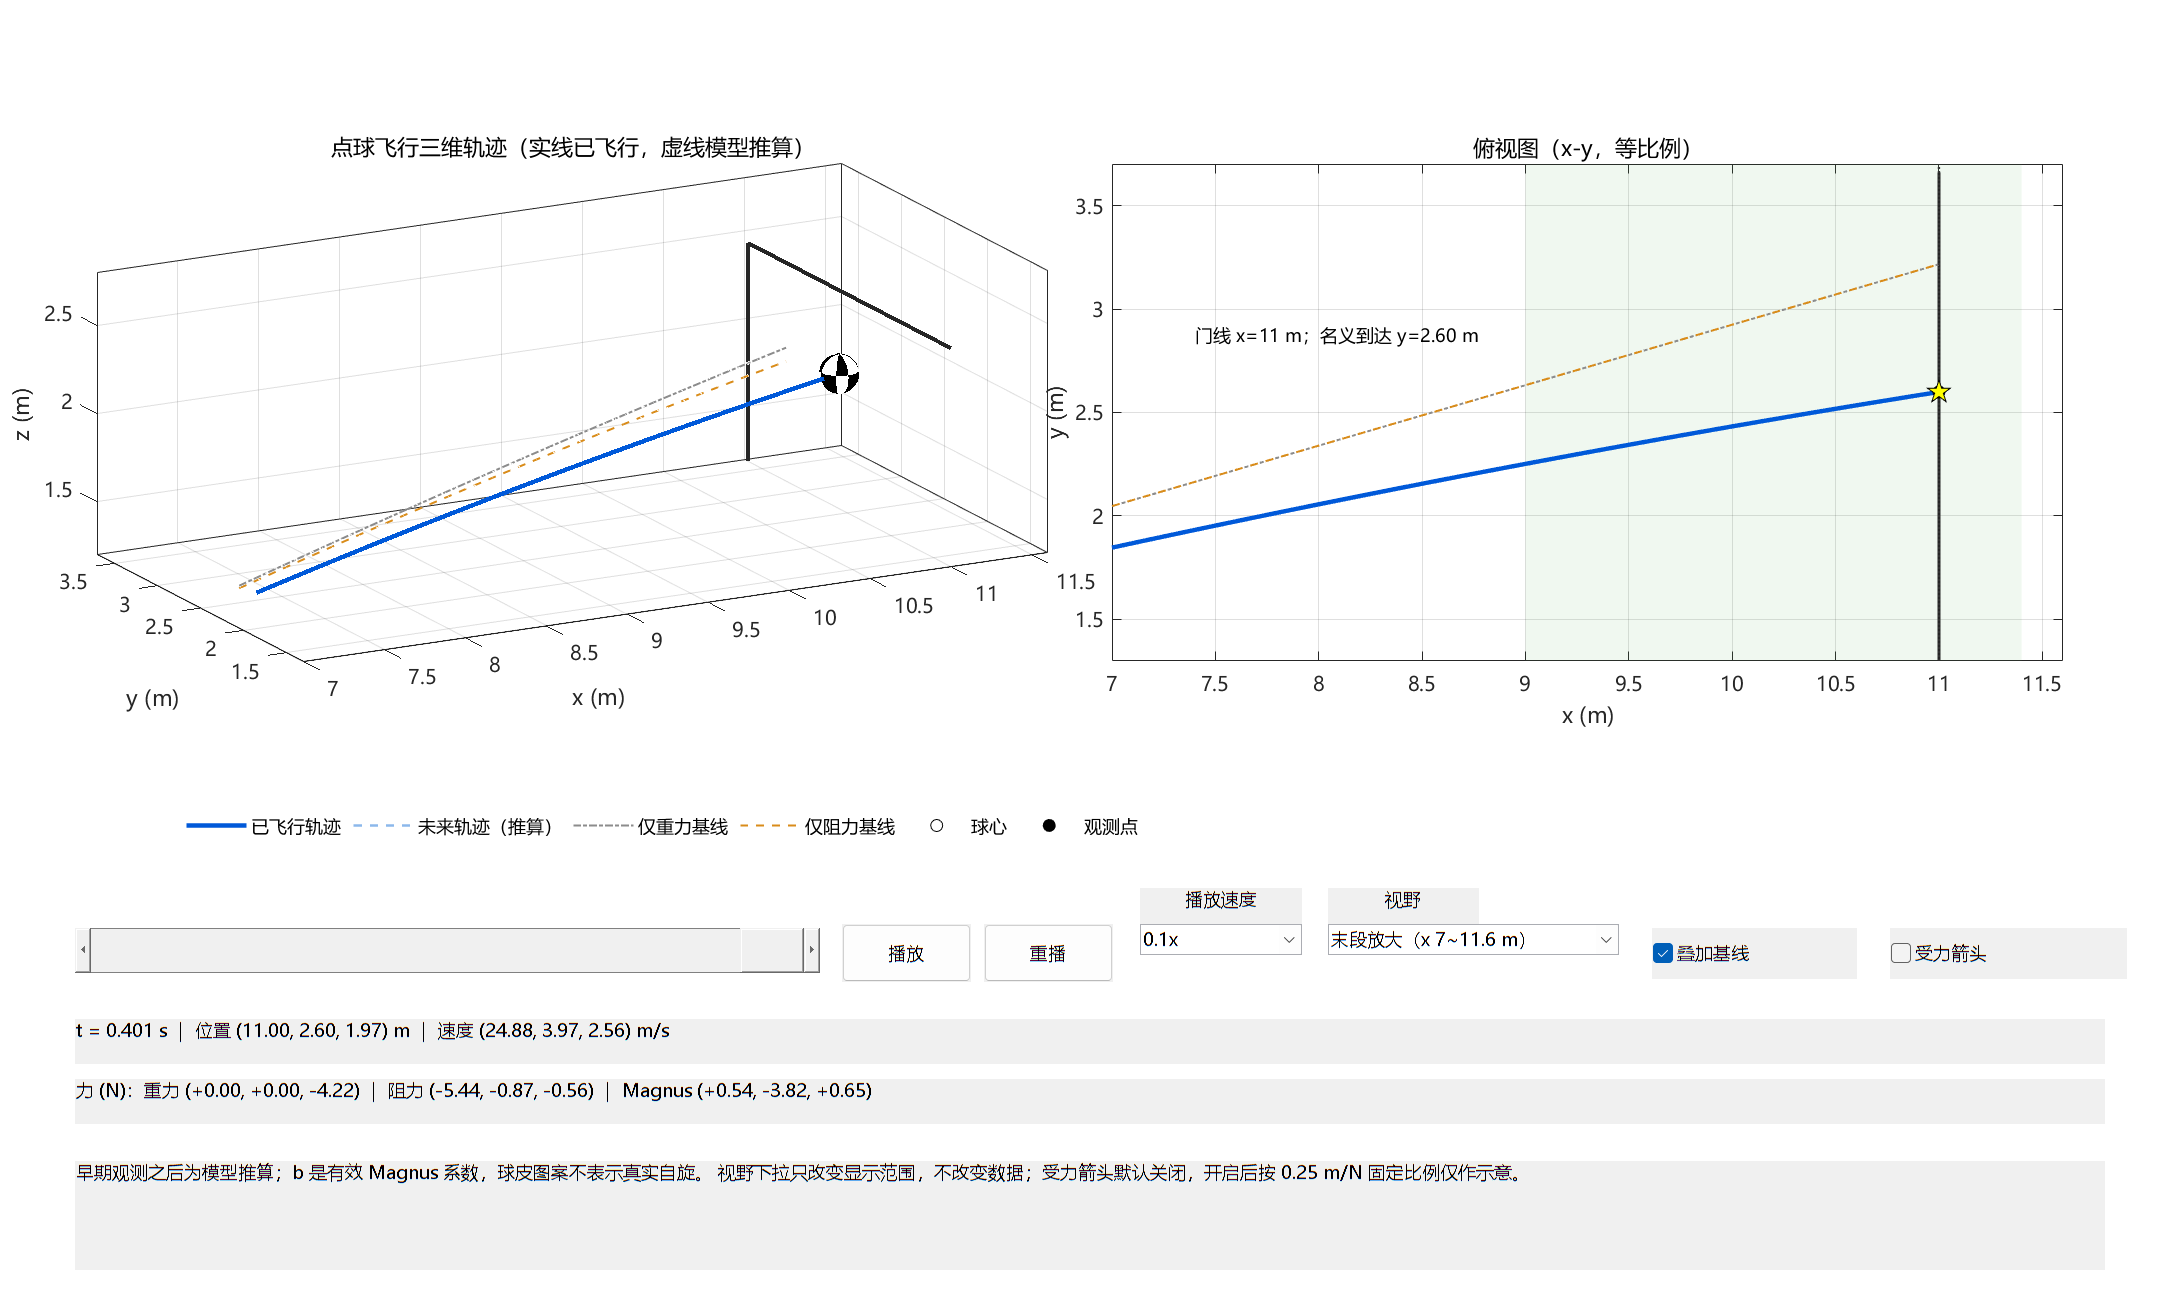
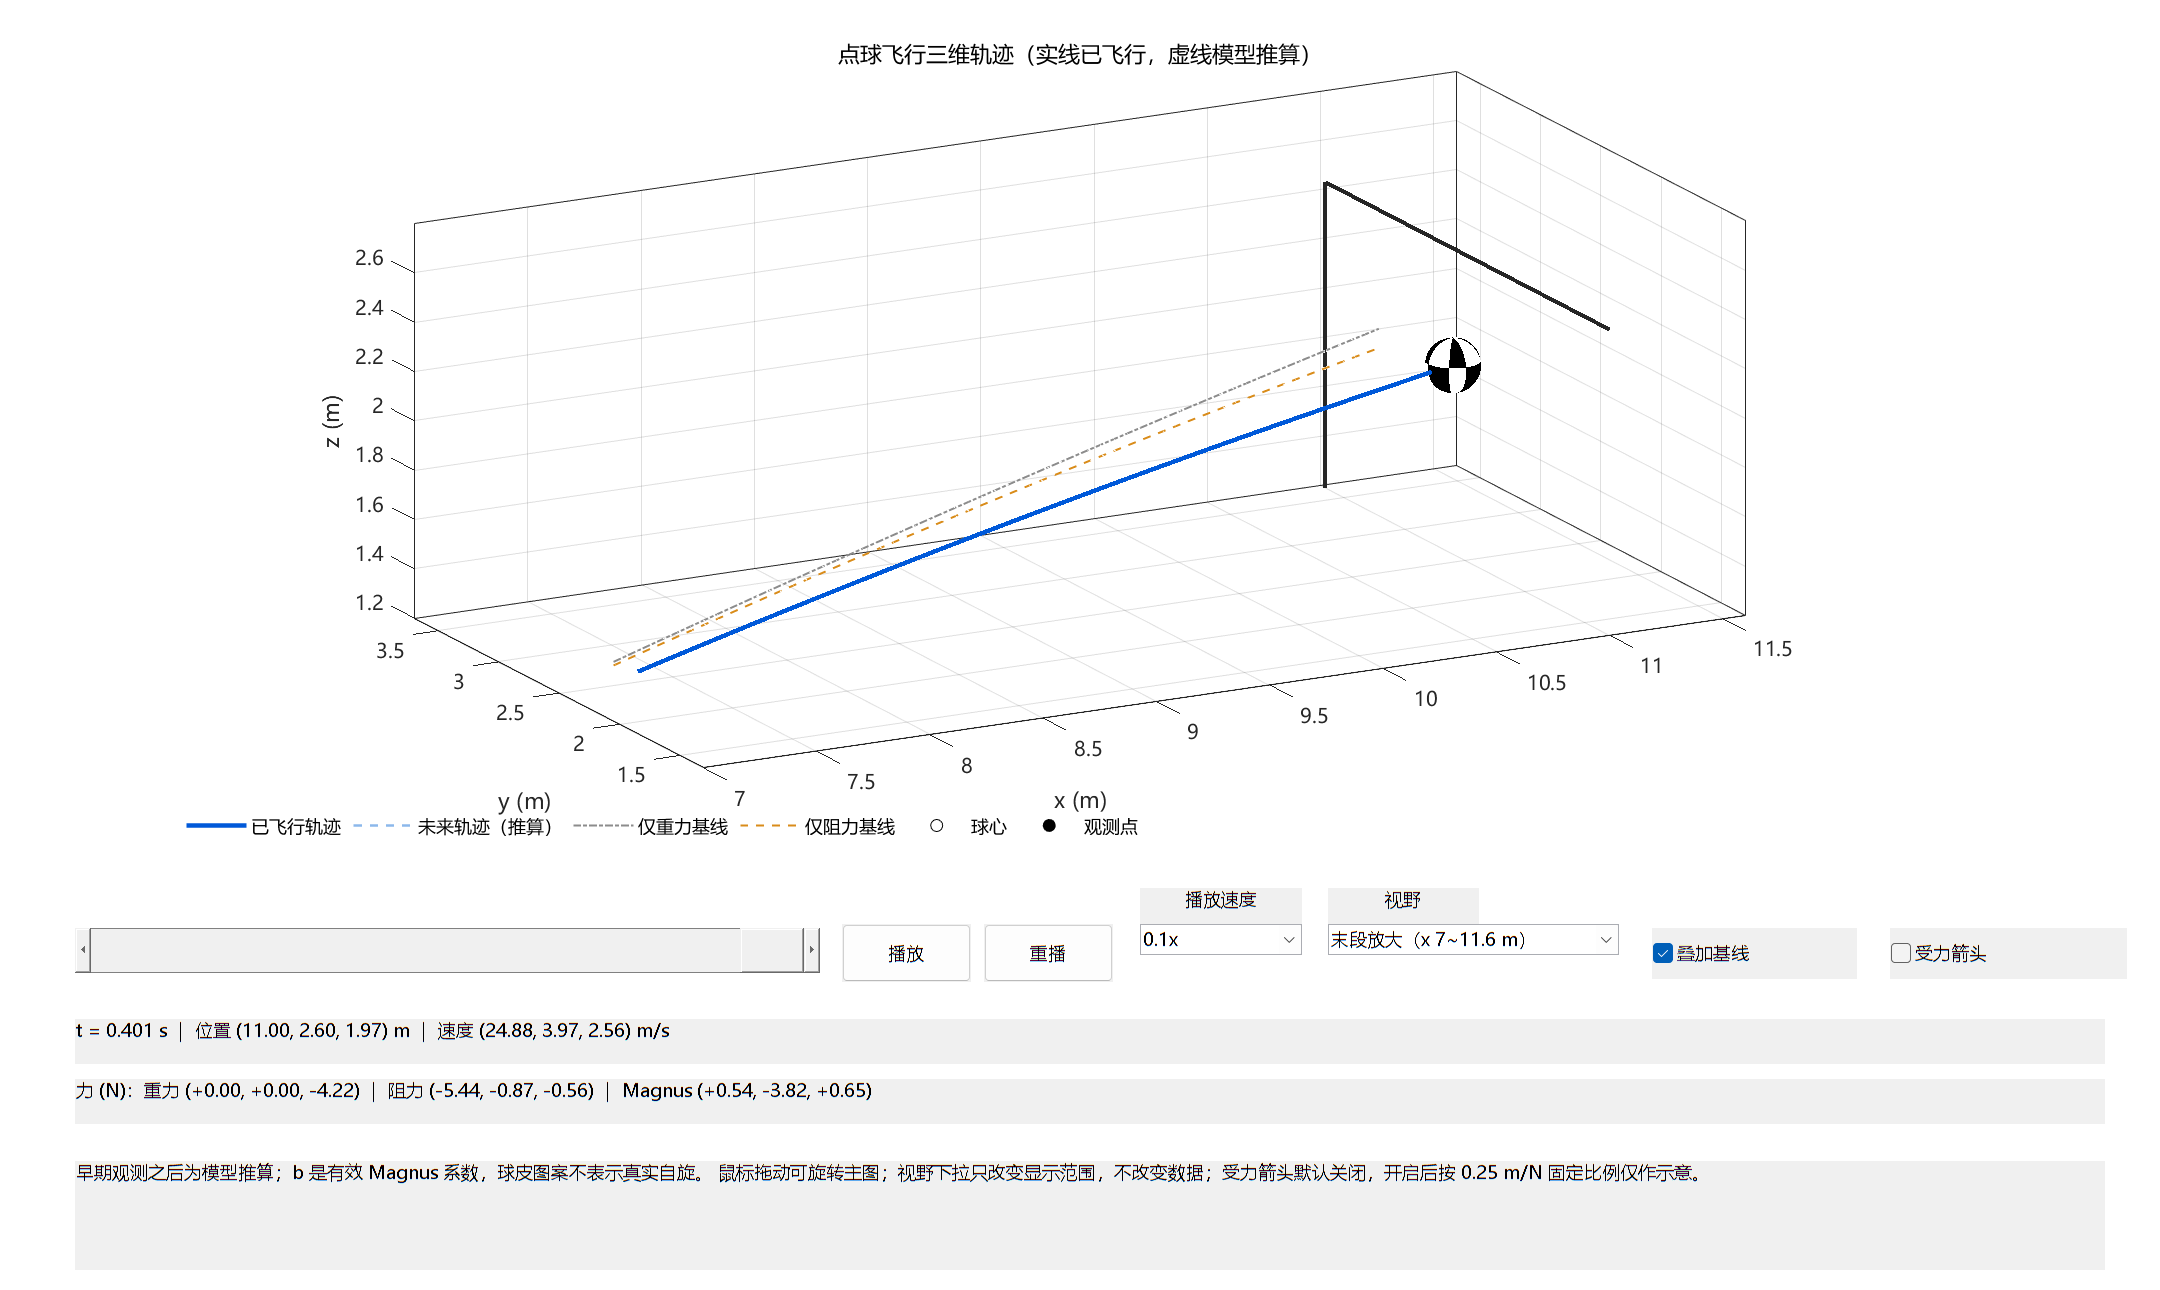
matlab仿真第三版，不过有点问题

diff --git a/仿真/Matlab版/penalty_view.m b/仿真/Matlab版/penalty_view.m
@@ -46,21 +46,17 @@ assert(ePos < 1e-7 && eT < 1e-7, '终点与已有 JSON 不一致（%.3g m / %.3g
 pG = predictPlane(thetaG,cfg,xPlane,Tmax); pD = predictPlane(thetaD,cfg,xPlane,Tmax);
 SG = deval(pG.sol,linspace(0,tEndOf(pG,Tmax),160))'; SD = deval(pD.sol,linspace(0,tEndOf(pD,Tmax),160))';
 
-% ---------- 界面（三维 + 俯视双视图，export 时不可见） ----------
+% ---------- 界面（单一可旋转三维主图，export 时不可见） ----------
 fig = figure('Name','点球动态仿真','Color','w','Units','pixels','Position',[40 40 1440 860]);
 if isExport, set(fig,'Visible','off'); end
-ax3 = axes(fig,'Position',[0.045 0.42 0.44 0.52],'Tag','Trajectory3D');
-axTop = axes(fig,'Position',[0.515 0.42 0.44 0.52],'Tag','TrajectoryTop');
+ax3 = axes(fig,'Position',[0.065 0.405 0.87 0.54],'Tag','Trajectory3D');
 hold(ax3,'on'); grid(ax3,'on'); box(ax3,'on'); view(ax3,-28,16);
-hold(axTop,'on'); grid(axTop,'on'); box(axTop,'on');
-set([ax3 axTop],'FontName','Microsoft YaHei');
+set(ax3,'FontName','Microsoft YaHei');
 
 % 草坪：仅球门附近小范围淡色
 patch(ax3,[9 11.4 11.4 9],[-0.4 -0.4 3.8 3.8],[0 0 0 0],[0.42 0.72 0.42], ...
     'FaceColor',[0.42 0.72 0.42],'EdgeColor','none','FaceAlpha',0.10, ...
     'HandleVisibility','off');
-patch(axTop,[9 11.4 11.4 9],[-0.4 -0.4 3.8 3.8],[0.42 0.72 0.42], ...
-    'EdgeColor','none','FaceAlpha',0.10,'HandleVisibility','off');
 
 % 球门：只画落在视野内的相关部分（右立柱、横梁、门线）
 plot3(ax3,xPlane*[1 1],goalHW*[1 1],[0 goalH],'-','Color',[0.15 0.15 0.15], ...
@@ -69,8 +65,6 @@ plot3(ax3,xPlane*[1 1],[-0.4 goalHW],goalH*[1 1],'-','Color',[0.15 0.15 0.15], .
     'LineWidth',2,'HandleVisibility','off');
 plot3(ax3,xPlane*[1 1],[-0.4 goalHW],[0 0],'-','Color',[0.15 0.15 0.15], ...
     'LineWidth',1.2,'HandleVisibility','off');
-plot(axTop,xPlane*[1 1],[-0.4 goalHW],'-','Color',[0.15 0.15 0.15], ...
-    'LineWidth',1.5,'HandleVisibility','off');
 
 % 完整 Magnus 轨迹：已飞行实线 / 未来浅蓝虚线（hFuture 初始即完整轨迹）
 hFuture = plot3(ax3,SAll(:,1),SAll(:,2),SAll(:,3),'--','Color',[0.55 0.72 0.92], ...
@@ -81,21 +75,11 @@ hG = plot3(ax3,SG(:,1),SG(:,2),SG(:,3),'-.','Color',[0.55 0.55 0.55], ...
     'LineWidth',1,'DisplayName','仅重力基线','Visible','off');
 hD = plot3(ax3,SD(:,1),SD(:,2),SD(:,3),'--','Color',[0.85 0.55 0.1], ...
     'LineWidth',1,'DisplayName','仅阻力基线','Visible','off');
-hFutureTop = plot(axTop,SAll(:,1),SAll(:,2),'--','Color',[0.55 0.72 0.92], ...
-    'LineWidth',1.2,'HandleVisibility','off');
-hPlayedTop = plot(axTop,SAll(1,1),SAll(1,2),'-','Color',[0 0.35 0.85], ...
-    'LineWidth',2.2,'HandleVisibility','off');
-hGTop = plot(axTop,SG(:,1),SG(:,2),'-.','Color',[0.55 0.55 0.55], ...
-    'LineWidth',1,'Visible','off','HandleVisibility','off');
-hDTop = plot(axTop,SD(:,1),SD(:,2),'--','Color',[0.85 0.55 0.1], ...
-    'LineWidth',1,'Visible','off','HandleVisibility','off');
 
 % 观测点（两处文字偏移不同，避免互相遮挡）
 hObs = plot3(ax3,obs(:,1),obs(:,2),obs(:,3),'ko','MarkerFaceColor','k', ...
     'MarkerSize',6,'DisplayName','观测点');
 plot3(ax3,obs(2,1),obs(2,2),obs(2,3),'rs','MarkerSize',9,'LineWidth',1.5, ...
-    'HandleVisibility','off');
-plot(axTop,obs(:,1),obs(:,2),'ko','MarkerFaceColor','k','MarkerSize',6, ...
     'HandleVisibility','off');
 text(ax3,obs(1,1)+0.10,obs(1,2)-0.85,obs(1,3)+0.55,'观测 t=0.05 s', ...
     'FontName','Microsoft YaHei','FontSize',9,'Clipping','on');
@@ -107,8 +91,6 @@ Cb = 0.92*ones(size(Zb)); Cb(mod(floor((ang+pi)/(pi/4)) + (Zb>0),2)==0) = 0.04;
 hBall = surf(ax3,cfg.r0(1)+R*Xb,cfg.r0(2)+R*Yb,cfg.r0(3)+R*Zb,Cb,'EdgeColor','none', ...
     'HandleVisibility','off'); colormap(ax3,gray(64));
 hCenterLegend = plot3(ax3,nan,nan,nan,'o','MarkerSize',6,'MarkerEdgeColor','k','MarkerFaceColor','w');
-hBallTop = plot(axTop,cfg.r0(1),cfg.r0(2),'o','MarkerSize',6, ...
-    'MarkerFaceColor',[0 0.35 0.85],'MarkerEdgeColor','k','HandleVisibility','off');
 
 % 受力箭头（默认关闭；开启后按 0.25 m/N 固定比例示意）
 sc = 0.25;
@@ -117,20 +99,12 @@ hqD = quiver3(ax3,0,0,0,0,0,0,0,'Color',[0.2 0.65 0.2],'LineWidth',1.6,'HandleVi
 hqM = quiver3(ax3,0,0,0,0,0,0,0,'Color',[0.2 0.3 0.9],'LineWidth',1.6,'HandleVisibility','off');
 set([hqG hqD hqM],'Visible','off');
 
-% 俯视图：门线 x=11 与名义到达点
-plot(axTop,xPlane*[1 1],[-0.4 3.8],':','Color',[0.2 0.2 0.2],'LineWidth',1.2, ...
-    'HandleVisibility','off');
-plot(axTop,xPlane,res.prediction.yGoal,'p','MarkerSize',12,'MarkerFaceColor','y', ...
-    'MarkerEdgeColor','k','HandleVisibility','off');
-text(axTop,xPlane-3.6,res.prediction.yGoal+0.28,sprintf('门线 x=11 m；名义到达 y=%.2f m', ...
-    res.prediction.yGoal),'FontName','Microsoft YaHei','FontSize',9);
+
 
 xlabel(ax3,'x (m)'); ylabel(ax3,'y (m)'); zlabel(ax3,'z (m)');
 title(ax3,'点球飞行三维轨迹（实线已飞行，虚线模型推算）','FontName','Microsoft YaHei');
-xlabel(axTop,'x (m)'); ylabel(axTop,'y (m)');
-title(axTop,'俯视图（x-y，等比例）','FontName','Microsoft YaHei');
 
-% 共享图例：放在两图下方、控件上方；只列 6 项
+% 图例位于主图下方、控件上方
 lg = legend(ax3,[hPlayed hFuture hG hD hCenterLegend hObs], ...
     {'已飞行轨迹','未来轨迹（推算）','仅重力基线','仅阻力基线','球心','观测点'}, ...
     'Orientation','horizontal','NumColumns',6,'FontSize',9);
@@ -171,7 +145,7 @@ hFL = uicontrol(fig,'Style','text','Units','normalized','Position',[0.035 0.128 
     'String','力 (N)','FontName','Microsoft YaHei','FontSize',9,'HorizontalAlignment','left');
 uicontrol(fig,'Style','text','Units','normalized','Position',[0.035 0.015 0.94 0.085], ...
     'String',['早期观测之后为模型推算；b 是有效 Magnus 系数，球皮图案不表示真实自旋。' ...
-    ' 视野下拉只改变显示范围，不改变数据；受力箭头默认关闭，开启后按 0.25 m/N 固定比例仅作示意。'], ...
+    ' 鼠标拖动可旋转主图；视野下拉只改变显示范围，不改变数据；受力箭头默认关闭，开启后按 0.25 m/N 固定比例仅作示意。'], ...
     'FontName','Microsoft YaHei','FontSize',9,'HorizontalAlignment','left');
 applyView(1);
 playing = false; speed = 0.1; t0 = 0; tClock = tic; timerH = [];
@@ -180,6 +154,7 @@ if ~isExport
     timerH = timer('ExecutionMode','fixedSpacing','Period',0.04,'BusyMode','drop', ...
         'TimerFcn',@cbTick,'Name','PenaltyViewPlayback');
     set(fig,'DeleteFcn',@(~,~)stopTimer(timerH));
+    rotate3d(fig,'on');
     fprintf('[penalty_view] 交互界面就绪：T=%.9f s，y=%.6f m，z=%.6f m。\n', ...
         pNom.tCross,pNom.y,pNom.z);
     return;
@@ -225,7 +200,7 @@ ver.theta = theta;
 ver.effectiveMagnusCoefficient = struct('bx',cfg.bx,'by',theta(5),'bz',theta(6),'unit','1/s');
 ver.baselines = struct('gravityV0',thetaG(1:3),'dragV0Cd',thetaD([1 2 3 4]));
 ver.forceArrowScale_mPerN = sc;
-ver.viewLayout = '3D+XY'; ver.predictionPanel = false;
+ver.viewLayout = '3D'; ver.predictionPanel = false; ver.topViewPanel = false;
 ver.viewRanges = struct('full',struct('x',[-0.4 11.6],'y',[-0.4 3.8],'z',[0 3]), ...
     'zoom',struct('x',[7 11.6],'y',[1.3 3.7],'z',[1.2 2.8]));
 ver.viewUsedExport = 'full';
@@ -245,15 +220,12 @@ fprintf('[penalty_view] export 完成：观测误差 %.3g m，终点误差 %.3g 
     function updateFrame(tNow)
         tNow = min(max(tNow,0),tAll(end)); sNow = deval(pNom.sol,tNow)';
         set(hBall,'XData',sNow(1)+R*Xb,'YData',sNow(2)+R*Yb,'ZData',sNow(3)+R*Zb);
-        set(hBallTop,'XData',sNow(1),'YData',sNow(2));
         % 过去实线：到 tNow 为止，末点追加当前点；未来虚线：从当前点到终点，不重复覆盖
         k = find(tAll <= tNow + 1e-12,1,'last'); if isempty(k), k = 1; end
         Spast = [[SAll(1:k,1);sNow(1)],[SAll(1:k,2);sNow(2)],[SAll(1:k,3);sNow(3)]];
         Sfut = [[sNow(1);SAll(k+1:end,1)],[sNow(2);SAll(k+1:end,2)],[sNow(3);SAll(k+1:end,3)]];
         set(hPlayed,'XData',Spast(:,1),'YData',Spast(:,2),'ZData',Spast(:,3));
         set(hFuture,'XData',Sfut(:,1),'YData',Sfut(:,2),'ZData',Sfut(:,3));
-        set(hPlayedTop,'XData',Spast(:,1),'YData',Spast(:,2));
-        set(hFutureTop,'XData',Sfut(:,1),'YData',Sfut(:,2));
         set(hSlider,'Value',tNow);
         [~,F] = ball_rhs(tNow,sNow(:),theta,cfg);
         set(hqG,'XData',sNow(1),'YData',sNow(2),'ZData',sNow(3),'UData',sc*F.gravity(1),'VData',sc*F.gravity(2),'WData',sc*F.gravity(3));
@@ -275,8 +247,6 @@ fprintf('[penalty_view] export 完成：观测误差 %.3g m，终点误差 %.3g 
         end
         xlim(ax3,xr); ylim(ax3,yr); zlim(ax3,zr);
         pbaspect(ax3,[diff(xr) diff(yr) diff(zr)]);   % 1:1:1 单位比例，量程不被拉伸
-        xlim(axTop,xr); ylim(axTop,yr);
-        pbaspect(axTop,[diff(xr) diff(yr) 1]);        % 俯视等比例，量程保持不变
     end
 
     function cbView(src,~)
@@ -325,7 +295,7 @@ fprintf('[penalty_view] export 完成：观测误差 %.3g m，终点误差 %.3g 
 
     function cbCmp(src,~)
         onoff = 'off'; if get(src,'Value'), onoff = 'on'; end
-        set([hG hD hGTop hDTop],'Visible',onoff);  % 三维与俯视图同步
+        set([hG hD],'Visible',onoff);
     end
 
     function cbClose(~,~)

diff --git a/latex/knowledge/B题建模与验证.md b/latex/knowledge/B题建模与验证.md
@@ -94,7 +94,7 @@ MATLAB主入口为 `仿真/Matlab版/penalty.m`：函数文件名采用MATLAB合
 
 动态演示采用已安装的MATLAB R2024a原生三维绘图。计算对象仍是球心状态r、v，球体表面是显示用途；不通过随意设定球皮旋转来暗示测得了自旋。主计算与演示共同调用 `仿真/Matlab版/ball_rhs.m`，使重力、平方阻力和有效Magnus项保持同一来源。
 
-从已拟合初速度出发积分牛顿方程，再按播放时间查询积分解，逐帧更新球心、已飞行轨迹和力箭头。改变播放速度只改变显示速度，不改变积分的物理时间。力箭头使用固定的显示比例，数值面板给出牛顿单位。演示采用同步三维视图和x-y俯视图；不确定性仍在正式计算和论文中讨论，动态界面专注轨迹细节。
+从已拟合初速度出发积分牛顿方程，再按播放时间查询积分解，逐帧更新球心、已飞行轨迹和力箭头。改变播放速度只改变显示速度，不改变积分的物理时间。力箭头使用固定的显示比例，数值面板给出牛顿单位。演示只保留单一可交互旋转的三维主图；不确定性仍在正式计算和论文中讨论，动态界面专注轨迹细节。
 
 浅色虚线表示尚未播放的模型推算段，深色实线表示已播放段，两段只在当前球心相接，避免重复覆盖。两个实测坐标保持原值，对照基线各自采用已有拟合参数。三条模型曲线的差异体现受力假设的影响，不能当成三个真实射门的比较。完整模型的轨迹在观测之外仍受模型假设限制。
 
@@ -104,6 +104,6 @@ MATLAB主入口为 `仿真/Matlab版/penalty.m`：函数文件名采用MATLAB合
 
 动态仿真已实际运行验证：三力之和/质量与ODE加速度一致；观测位置最大偏差2.15e-11 m，落点相对正式JSON偏差1.37e-11 m，时刻偏差5.35e-13 s。已检查拖动、暂停、继续、播放完成、比较基线开关、关闭清理；GIF为80帧约4秒，时序CSV为80行。上述小偏差只说明显示与计算一致，不是现实预测精度。
 
-视野可在全程与末段放大之间切换；两视图同步缩放真实坐标，不人为平移基线或放大曲率。受力箭头默认隐藏，按需打开；比较基线开关同时作用于三维与俯视图。
+视野可在全程与末段放大之间切换；直接拖动主图可旋转视角，也可通过MATLAB图形工具查看俯视方向。切换播放时间和放大范围保留用户当前视角；不人为平移基线或放大曲率。受力箭头默认隐藏，按需打开。
 
-双视图版已验证：仅有三维和俯视两个坐标区，0.10 s时实线末端与虚线起点重合于题给位置；末段放大与全程切换同步；基线/箭头开关、暂停续播、重播和关闭清理通过。导出仍为80帧，名义轨迹观测误差和终点偏差与此前一致。两条基线在俯视图中仍可能自然重合，因为重力和沿速度方向的阻力不会单独产生横向转弯，不应人为错开曲线。
+单主图版已验证：界面仅有一个轨迹坐标区，鼠标旋转模式已启用；切换时间和末段放大时保留当前视角，基线开关及关闭清理通过。动画导出保留80帧与同一条物理轨迹。

diff --git a/项目进度/项目进度.md b/项目进度/项目进度.md
@@ -13,7 +13,7 @@
 
 ## 已完成
 
-- MATLAB动态仿真已改为同步三维轨迹与x-y俯视图，移除预测分布面板；全程/末段放大、过去实线/未来虚线分段、基线与受力箭头开关已实跑验证。当前入口仿真/Matlab版/penalty_view.m，导出位于该版img和data内；积分和落点未变。
+- MATLAB动态仿真按用户最新要求仅保留可交互旋转的三维主图，删除俯视与预测分布面板；主图扩大，保留全程/末段放大、时间滑块及基线/箭头开关。单坐标区、旋转模式及切换时间/缩放保留视角已实跑验证；入口仍为仿真/Matlab版/penalty_view.m。
 
 - 官方A/B题与镜像核对后选择B题：其观测和验证链更明确，A题缺失初速方向/推进/安全参数。该选择不是获奖保证。
 - MATLAB R2024a作为主力，Python/SciPy作为独立数值复核；已实际通过Claude Code调用DeepSeek deepseek-v4-flash进行MATLAB实现和中文稿翻译，Codex审查修正关键逻辑。
